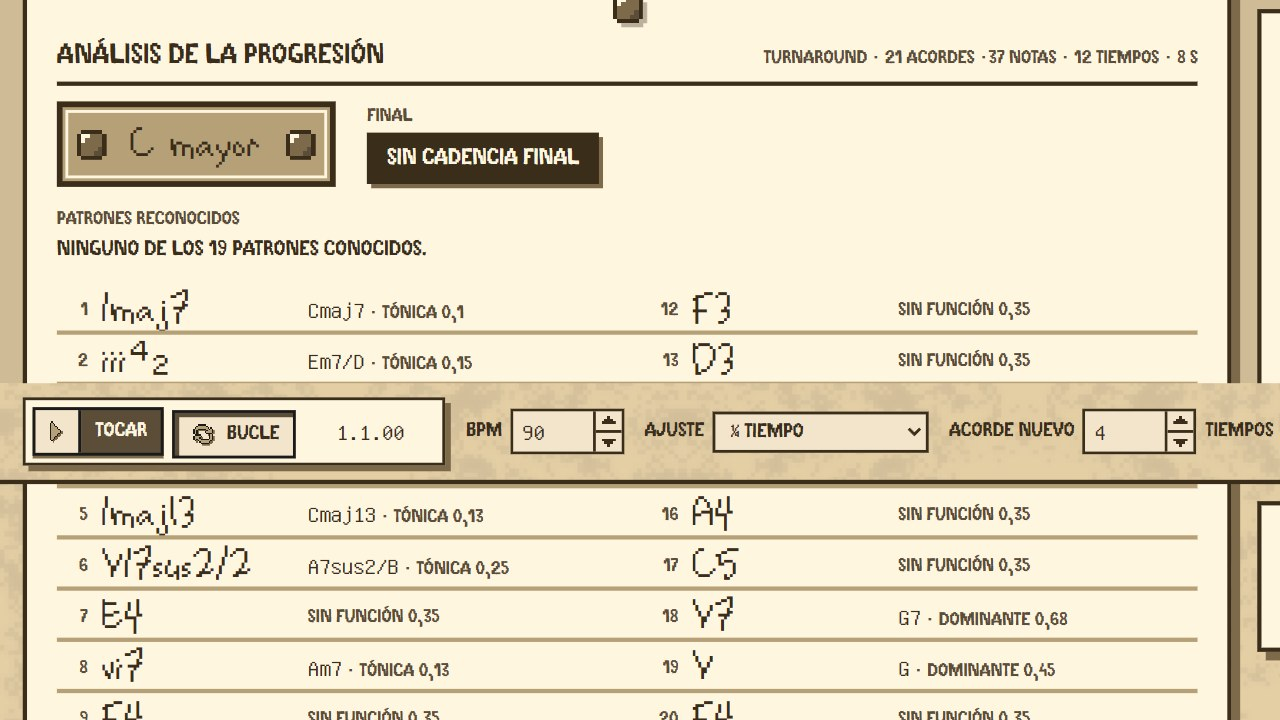
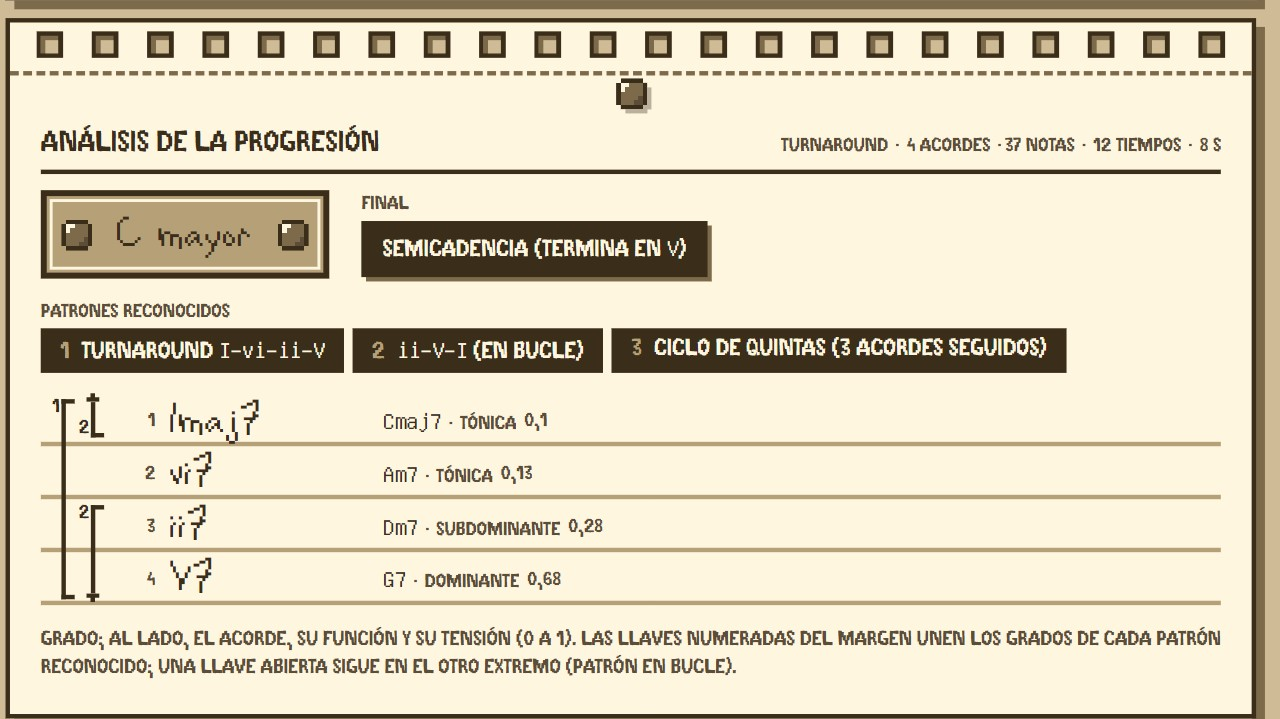
Retake the chord analyzer screenshots from the live site
- The analysis shot no longer has the sticky transport bar over the rows
- All six images show the current turnaround example and the latest UI
- Cover alt text describes the four chord turnaround and its patterns

diff --git a/src/projects/chord-analyzer.js b/src/projects/chord-analyzer.js
@@ -8,8 +8,8 @@ export default {
   year: 2026,
   cover: 'cover.jpg',
   coverAlt: {
-    es: 'Análisis de una progresión en Do mayor: los 21 acordes con su grado, función y tensión, sobre una hoja de cuaderno, y el teclado debajo',
-    en: 'Analysis of a progression in C major: the 21 chords with their degree, function and tension, on a notebook sheet, with the keyboard below'
+    es: 'Análisis de un turnaround en Do mayor: los 4 acordes con su grado, función y tensión y los patrones que reconoce, sobre una hoja de cuaderno, y el teclado debajo',
+    en: 'Analysis of a turnaround in C major: the 4 chords with their degree, function and tension and the patterns it recognizes, on a notebook sheet, with the keyboard below'
   },
   roles: { es: 'Diseño y desarrollo', en: 'Design and development' },
   tools: 'JavaScript · Vite · Web Audio · Vitest',
